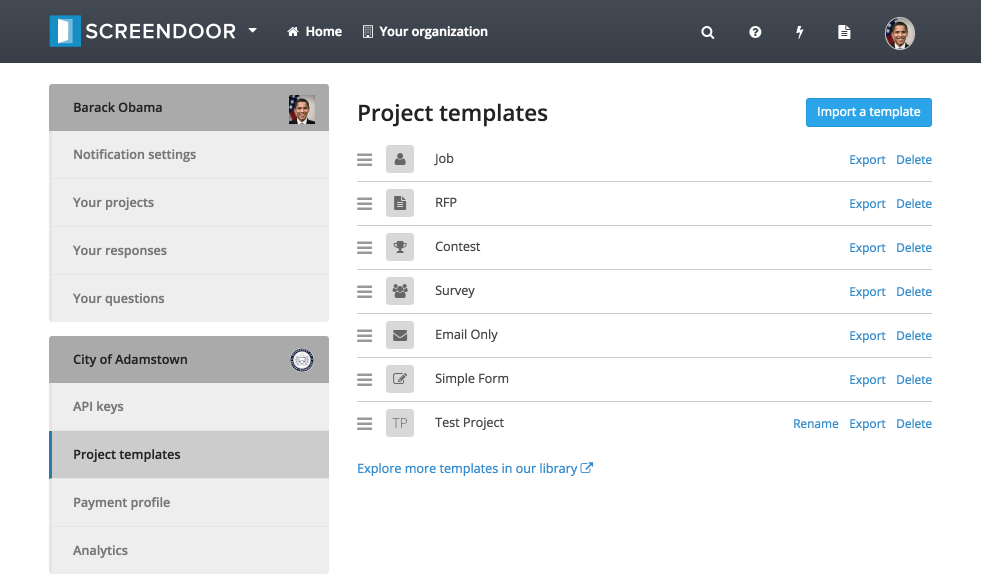
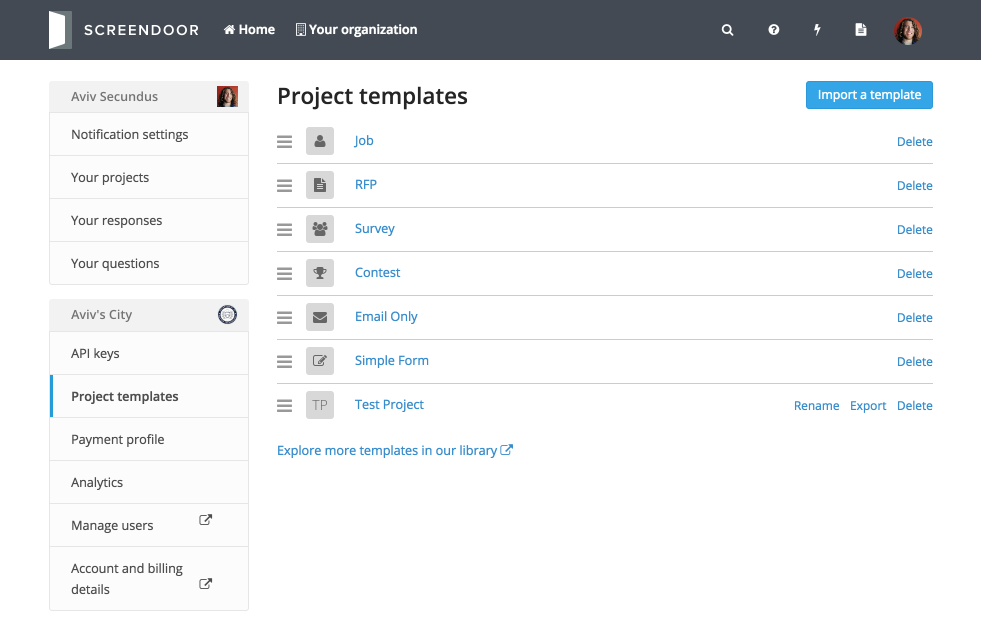
update project templates for preview
cf. https://github.com/dobtco/screendoor-v2/pull/1620

diff --git a/contents/articles/screendoor/projects/templates.md b/contents/articles/screendoor/projects/templates.md
@@ -24,6 +24,14 @@ From the "Project templates" page, you can view and manage your project template
 
 ![project templates](../images/project_templates.png)
 
+## Previewing templates
+
+To preview a template, just click on it's name from the "Project templates" page.
+
+![preview template](../images/preview_project_template.png)
+
+From the preview page, you can click the "Create a project with this template" button to use that template for a new project.
+
 ## Using templates
 
 To use a template for a new project, simply select it from the list of templates when you create a project.
